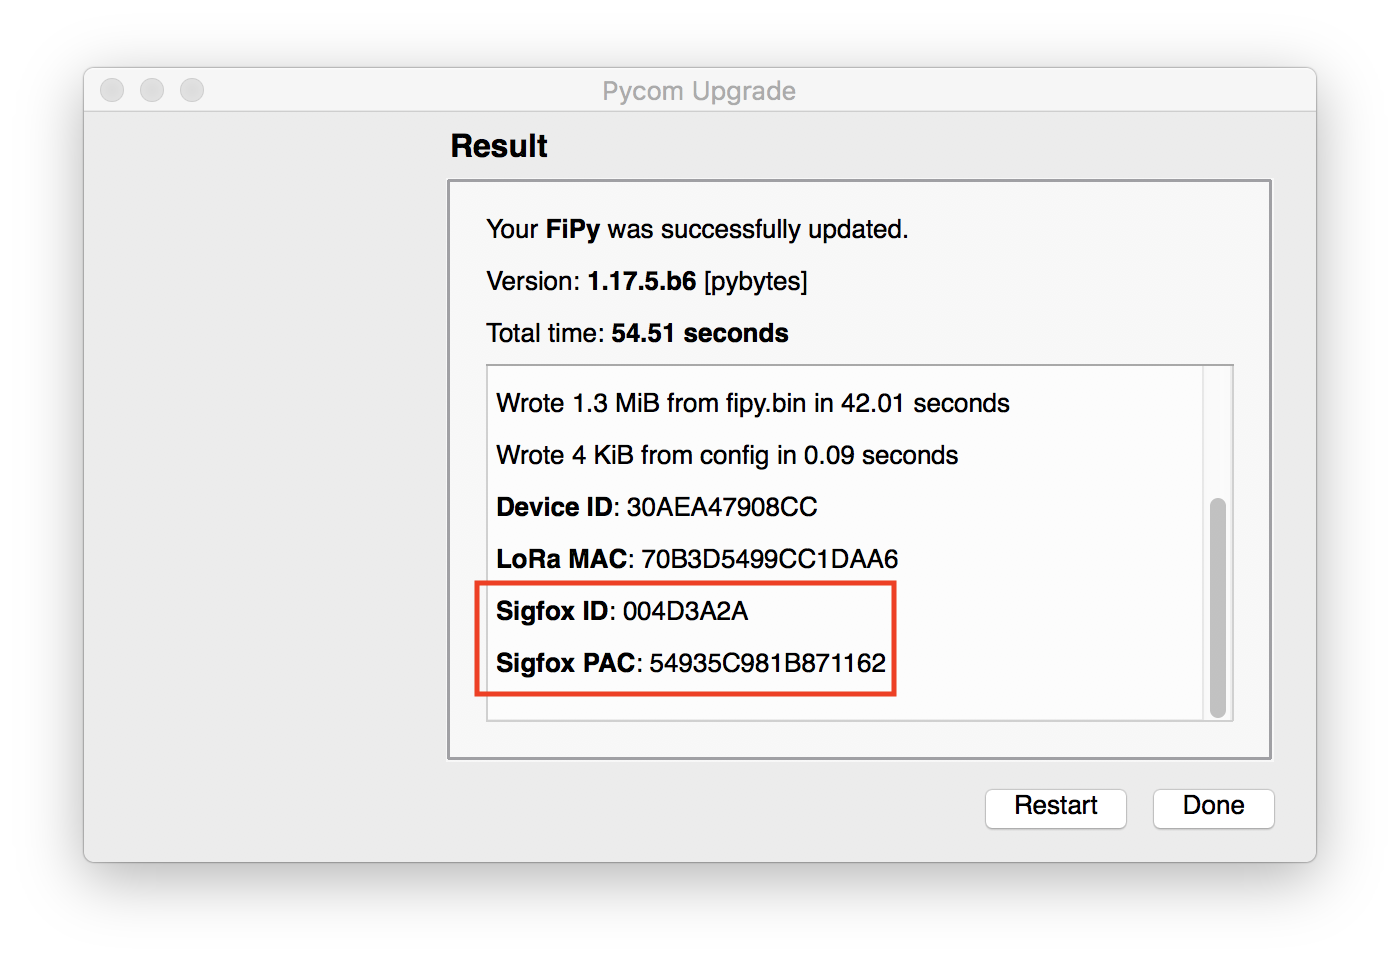
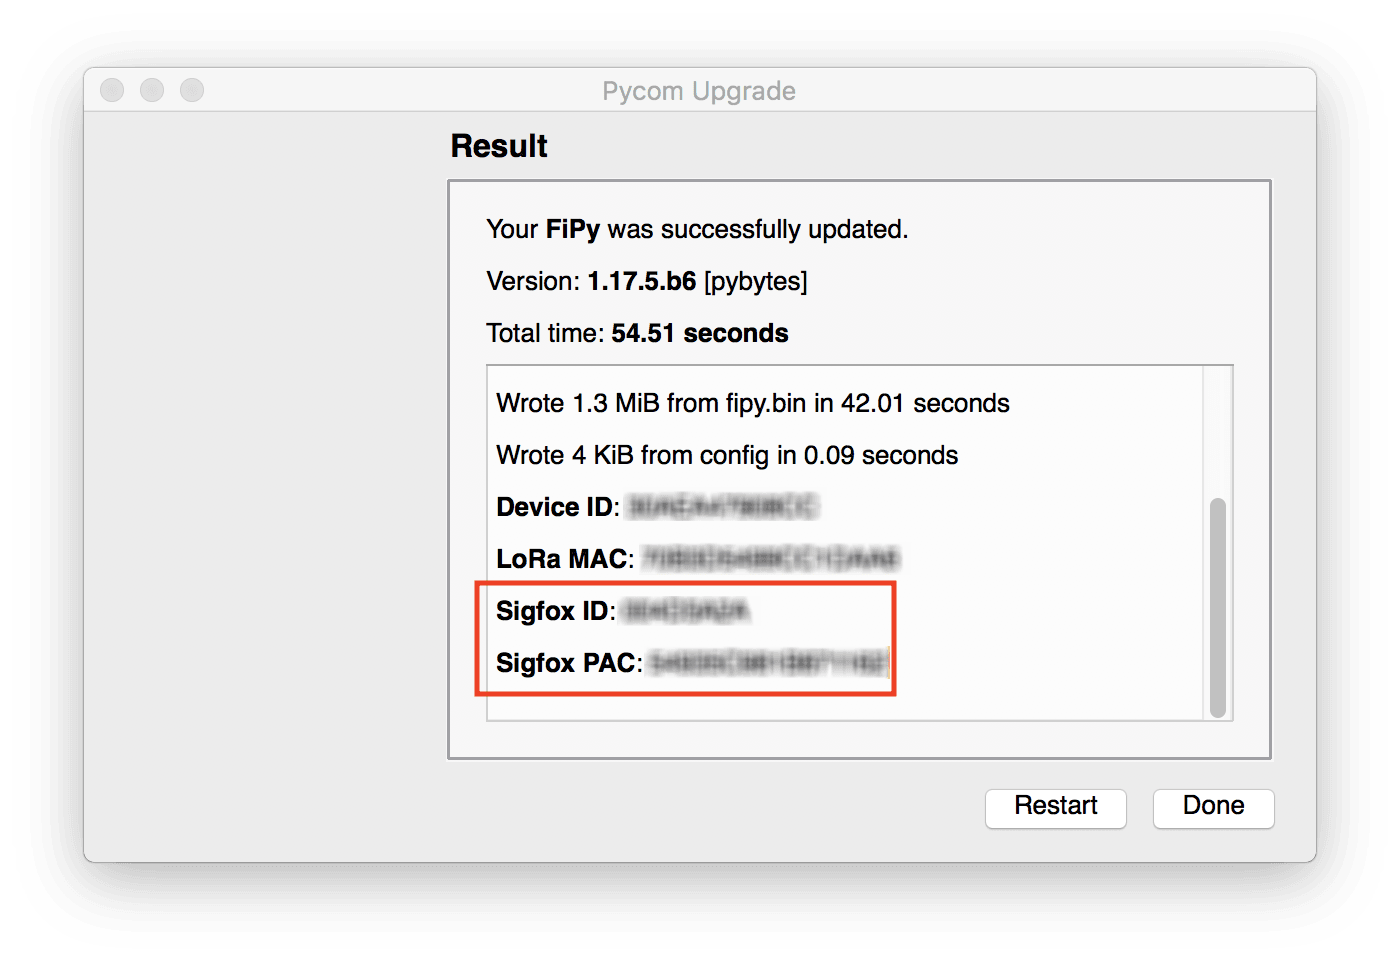
Updated documentation for registering sigfox device

Changed region(s): [[0.43, 0.499, 0.645, 0.7173]]

diff --git a/chapter/gettingstarted/registration/sigfox.md b/chapter/gettingstarted/registration/sigfox.md
@@ -1,4 +1,4 @@
-# Registering with Sigfox
+# Registering device at Sigfox Backend
 
 Before you start, update your device to the latest firmware. Select *stable* firmware in Firmware updater.
 After firmware update is done, *Sigfox ID* and *Sigfox PAC* were assigned to your device.
@@ -32,7 +32,20 @@ You need to register to the Sigfox Backend. Navigate to https://backend.sigfox.c
 <p align="center"><img src ="../../../img/gettingstarted/sigfox/sigfoxActivate.png"></p>
 
 Find the specific country country where the device will be activated.
-Enter the device's *Sigfox ID* and *Sigfox PAC*. Then provide the required information including email address and complete registration.
+Enter the device's *Sigfox ID* and *Sigfox PAC*.
+
+You should see green microchip if you entered correct  *Sigfox ID* and *Sigfox PAC*
+
+<p align="center"><img src ="../../../img/gettingstarted/sigfox/sigfoxIdPac.png"></p>
+
+Then provide the required information including email address and complete registration.
+
+{% hint style='info' %}
+When registering your other devices (not your first device), you already have created Sigfox Account before.
+Be sure you are login with your Sigfox account. In that way all of your devices will be added to same Sigfox Account.
+{% endhint %}
+
+<p align="center"><img src ="../../../img/gettingstarted/sigfox/sigfoxRegistrationForm.png"></p>
 
 After registration, you will receive confirmation email with *password* to Sigfox backend https://backend.sigfox.com/auth/login
 
@@ -40,4 +53,22 @@ Use your email and password to login to Sigfox backend.
 
 <p align="center"><img src ="../../../img/gettingstarted/sigfox/sigfoxBackend.png"></p>
 
-If you enter your credentials then you should be able to login to Sigfox backend.
+If you enter correct credentials then you should be able to login to Sigfox backend.
+
+## Transferring your device to new Sigfox account
+
+You may want to transfer your devices to new Sigfox account.
+
+Once you register your device on Sigfox backend, then your Sigfox PAC was used, and is not valid anymore.
+You need to get new Sigfox PAC.
+We don't update Sigfox PAC assigned to your device (which can be seen on last page of Firmware updater or read from device).
+
+To get new Sigfox PAC navigate to your device on Sigfox backend. On *device* click on Sigfox Id of device you want to transfer.
+
+<p align="center"><img src ="../../../img/gettingstarted/sigfox/sigfoxTableID.png"></p>
+
+Now you can see your new Sigfox PAC.
+
+<p align="center"><img src ="../../../img/gettingstarted/sigfox/newSigfoxPac.png"></p>
+
+Once you know your new Sigfox PAC go to https://backend.sigfox.com/activate and register device with different account.

diff --git a/chapter/pybytes/connect/sigfox.md b/chapter/pybytes/connect/sigfox.md
@@ -1,8 +1,8 @@
 # Add Sigfox device
 
 {% hint style='danger' %}
-Before you start you need to register your Sigfox account at **[Sigfox backend](../../gettingstarted/registration/sigfox.md)**.
-You need Pycom device with Sigfox connectivity to get your Sigfox account.
+Before you start you need to create Sigfox account.
+You need Pycom device with Sigfox to get your Sigfox account. **[Follow these instructions](../../gettingstarted/registration/sigfox.md)** first please.
 {% endhint %}
 
 ## Create Sigfox API credentials
@@ -22,11 +22,29 @@ Copy *Login* and *Password* to the clipboard.
 
 <p align="center"><img src ="../../../img/pybytes/sigfox/apiAccessKeys.png"></p>
 
-Paste *Login* and *Password* to the Pybytes Sigfox credentials page.
+In Pybytes go to Settings &rarr; Sigfox API or [follow this link](https://pybytes.pycom.io/settings/sigfox-credentials) then paste in the form.
 
 <p align="center"><img src ="../../../img/pybytes/sigfox/pybytesSigfoxCredentials.png"></p>
 
-## Add Sigfox device in Pybytes
+## Sigfox account types
+
+### Sigfox DevKit contracts
+
+Every Pycom device with Sigfox connectivity comes with Sigfox DevKit account.
+You are provided with one year of free connectivity for your device. This is great for prototyping.
+
+For every new device you would need to repeat [Sigfox activation procedure](../../gettingstarted/registration/sigfox.md)
+
+
+Downside is that for every device you want to add to Pybytes,
+
+* you cannot use just Pybytes to add new devices
+* every device is added new Device
+
+### Sigfox custom contracts
+
+* paid
+* use just Pybytes to quickly add new Sigfox devices
 
 1. Create Sigfox device (Lopy4, SiPy, FiPy) in Pybytes
 2. Activate device with the firmware updater.
